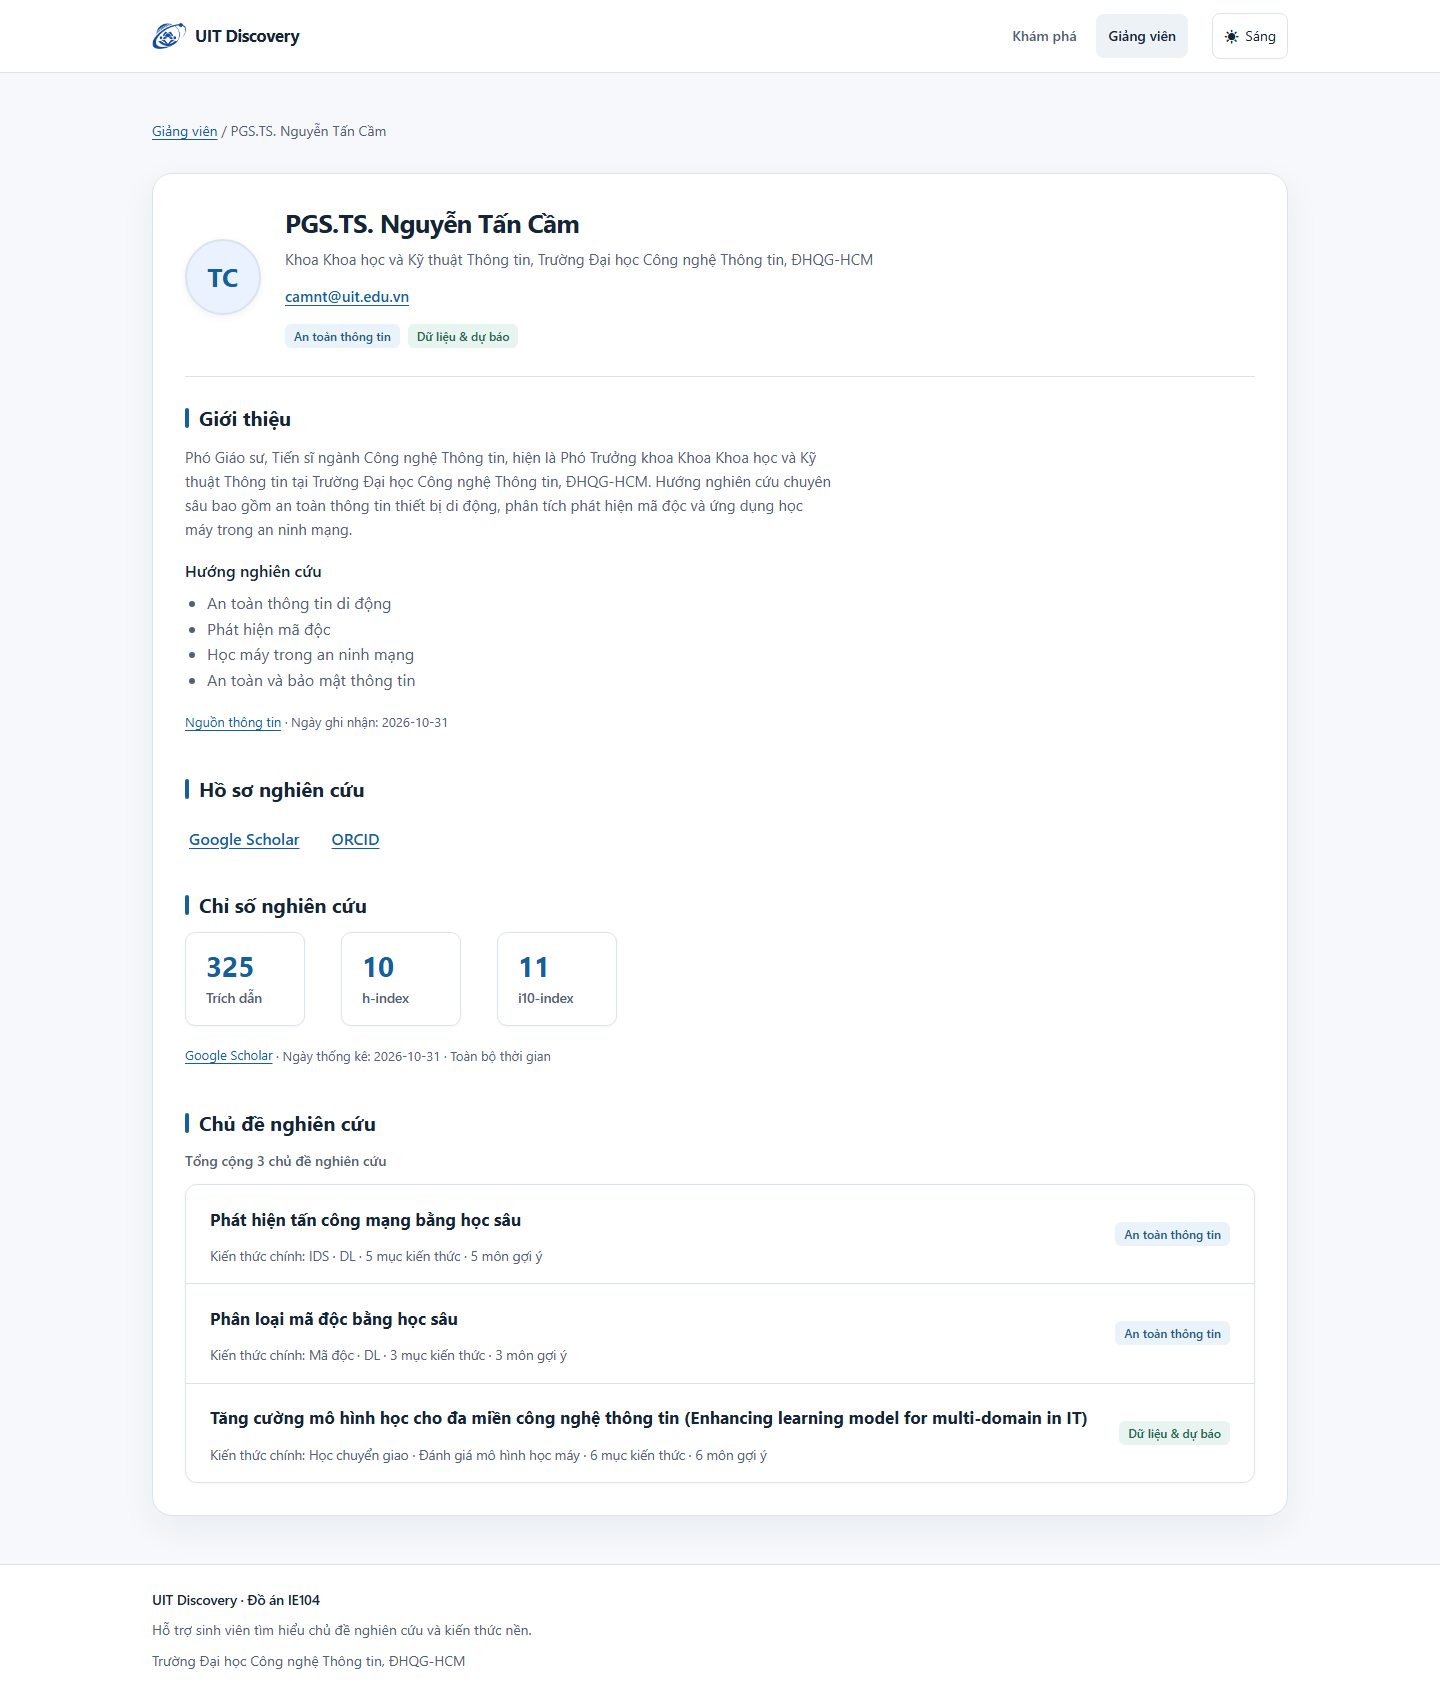
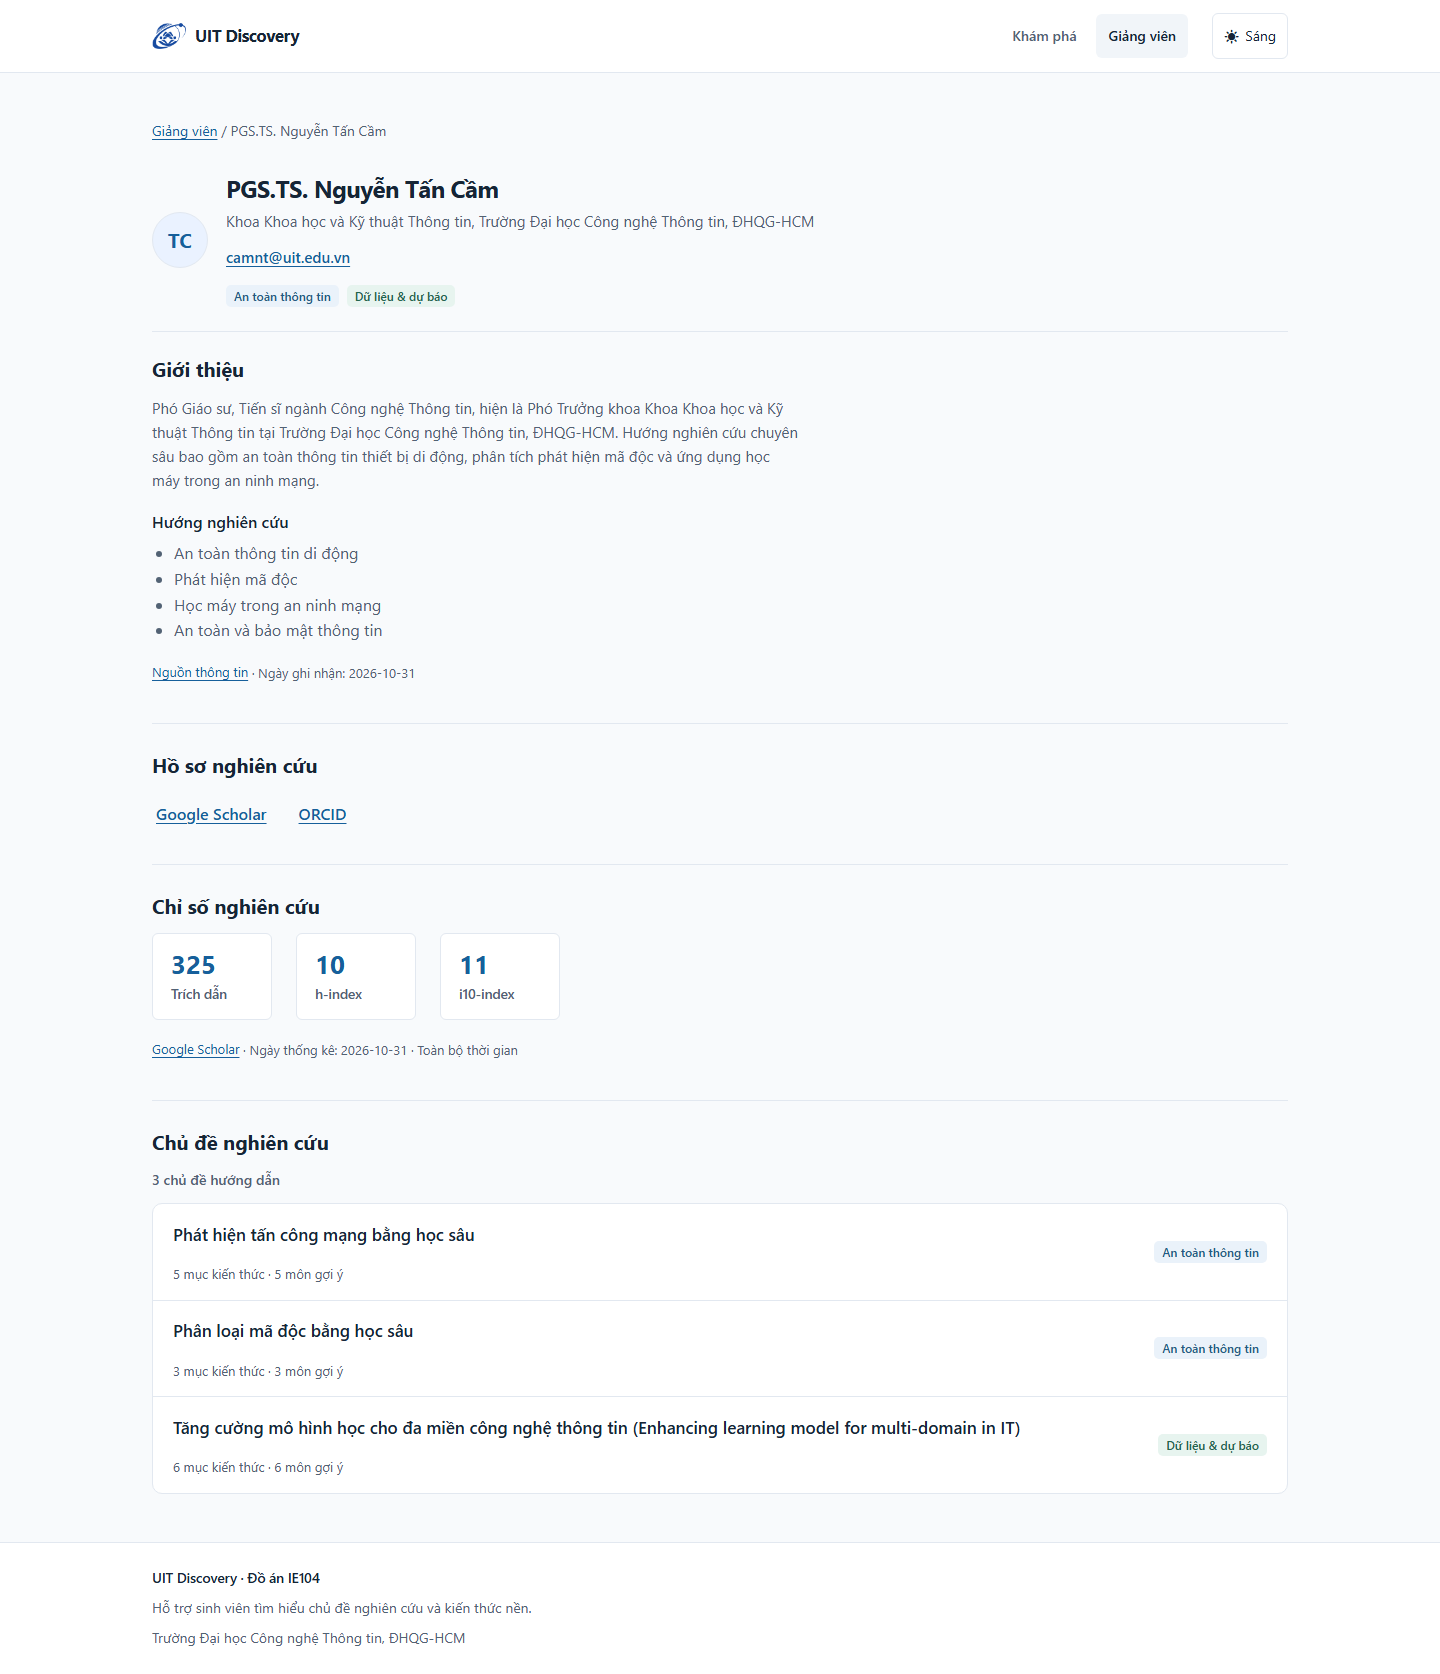
docs(history): cập nhật lịch sử và minh chứng bản giao diện tối giản

diff --git a/idea/ke-hoach-tich-hop-sua-loi.md b/idea/ke-hoach-tich-hop-sua-loi.md
@@ -757,3 +757,21 @@ Thực hiện nâng cấp toàn diện 5 trang (`15` file HTML/CSS/JS) theo báo
 - **W3C Validator (`https://validator.nu/?out=json`):** `0` lỗi trên cả 5 file HTML (`4` trang `0` cảnh báo; `topics/detail/index.html` `0` lỗi và `1` info-warning mặc định của `validator.nu` về hỗ trợ phần tử `<dialog>` trên các trình duyệt cũ, đã có fallback `hidden` kèm JS).
 - **Chrome Headless + CDP (`qa_report.json`):** `50` tổ hợp responsive (`5` trang × `5` rộng `320/375/768/1024/1440` × `2` theme) `0` tràn ngang (`0` multi-`<h1>`); `axe-core` WCAG 2A/AA & 2.1AA `0` vi phạm trên cả `5` trang (`1440×900` & `375×812`, Sáng/Tối) lẫn dialog Picker/Drawer; `0` phần tử chạm `< 43.5px` trên cả `5` trang (`touch_targets: []`); `37/37` cây nghiên cứu mở đệ quy `271` node đạt `0` chồng lấn; `0` console error/pageerror; bảo toàn truy vấn `"hoc sau" -> 5`, `"mã độc" -> 2`, `"nguyen tan cam" -> 3`, `first_topic_mobile_375.bottom = 711px <= 812px`, `hunglkt@uit.edu.vn -> PGS. TS. Lê Kim Hùng`, `topics_placeholder_320.fitsAt320 = true`, `hintHiddenInCards = true`, `expandVisible.clippedRightOrLeft = 0`.
 - **Minh chứng & Giới hạn:** Đủ `14` ảnh chụp sau nâng cấp lưu tại `idea/minh-chung-giao-dien/ui-upgrade-20261118/`. Báo cáo so sánh chi tiết đặt tại `../Đồ án tham khảo/SO_SANH_GIAO_DIEN_TRUOC_SAU_UIT_DISCOVERY.md`. Môi trường hiện tại không cài Node.js (`npm`/`npx`/`lighthouse` CLI) và không có Firefox/Safari/thiết bị cảm ứng vật lý; kiểm thử thực hiện trên Chrome Headless (Windows) + `axe.min.js` + `validator.nu`. Chưa push, merge hay deploy.
+
+
+### Tinh gọn theo phong cách Tối giản (lược bỏ trang trí & thông tin dư thừa) — 18/11/2026
+
+Theo phản hồi tiếp nhận sau bản `6f0d454` (giữ mục tiêu tối giản có chủ đích, bỏ bóng đổ/vạch trang trí/hộp lồng thừa và giữ cân bằng 3 sắc độ dịu của 3 nhóm ngành trên badge, tag và node gốc):
+
+- **Backup trước vòng tối giản:** `backup/job-2-ui-upgrade-v1-20261118` tại `b8d84ab` (vẫn giữ nguyên mốc gốc `f98c978` tại `backup/job-2-before-ui-upgrade-20261118`).
+- **Commit mã nguồn bản Tối giản:** `c72acf8` (`c72acf8b2fdb5d3b145b263035c977ff875495eb`) — sửa gọn `13` file (`282+ / 671-` dòng).
+- **Thay đổi cốt lõi trên 5 trang:**
+  - *Nền & Trang chủ (`index.html`, `style.css`, `data.js`):* `--shadow-soft: none`, bảng màu sáng/tối dịu tương phản cao (`#f8fafc/#ffffff/#e2e8f0` & `#121820/#18212c/#2c3849`), bo góc gọn (`6/10/12px`), bỏ sọc trái `.page-header`, chuyển Trang chủ về Hero 1 cột + 3 nhóm nghiên cứu thật (`14/12/11`) + chú thích phẳng cuối trang (gỡ `.home__visual`, `.home__steps`, `.eyebrow`, `.home__note`), rút gọn `summarizeTopicScope` còn chuỗi định lượng (`N mục kiến thức · M môn gợi ý`).
+  - *Khám phá (`topics/index.html`, `topics.css`):* bỏ câu dẫn thừa dưới `h1` và `<details class="topics-guide">` cuối trang, làm phẳng `.topics-search` thành vạch đáy `1px`, bỏ chấm màu cầu vồng trên chip chưa chọn, gom hàng tiêu đề kết quả + bộ đếm cùng dòng.
+  - *Chi tiết & Lộ trình (`topics/detail/index.html`, `topic-detail.css`, `topic-detail.js`):* làm phẳng `.topic-header`, ẩn hoàn toàn `#topic-switcher-container` khi GV chỉ có 1 đề tài (`7/16` GV), chuyển disclaimer thành `.roadmap-footnote` nhẹ cuối khối, thống nhất viền `solid` cho node/badge cấp độ và nền sạch cho `.mindmap-toolbar`.
+  - *Danh bạ & Hồ sơ (`lecturers/index.html`, `lecturers.css`, `lecturer-detail.css`, `lecturers.js`, `lecturer-detail.js`):* làm phẳng `.lecturers-filter`, xóa `.lecturer-card::before`, xóa hộp bọc `.profile-card` và sọc dọc `.profile-section__title::before`, dùng đường kẻ `1px`, thu gọn chữ đếm (`N chủ đề`, `N chủ đề hướng dẫn`) và ghi chú tối giản 1 dòng ở đáy.
+- **Kiểm chứng sau chỉnh sửa cuối (`c72acf8`):**
+  - `git diff data/` trống (`0` sửa đổi JSON); `0` `:root`, `0` `!important` và `100%` `#page-*` scoping trên 4 CSS trang; `170/170` hàm JS đủ JSDoc `@param`/`@returns`.
+  - W3C Validator (`validator.nu`): `0` lỗi trên 5 trang (`4` trang `0` cảnh báo; `topics/detail/index.html` còn `1` info-warning mặc định về `<dialog>` kèm fallback `hidden`).
+  - Chrome Headless + CDP (`qa_report.json`): `responsive_50: []`, `axe_violations: []`, `touch_targets: []`, `console_errors: []`, `all_37_trees` (`271` node với `0` chồng lấn), `first_topic_mobile_375` đạt `{top: 544, bottom: 582}` (`<= 812px`), bảo toàn `"hoc sau" -> 5`, `"mã độc" -> 2`, `"nguyen tan cam" -> 3`, `hunglkt -> PGS. TS. Lê Kim Hùng`, `topics_placeholder_320.fitsAt320: true`, `hintHiddenInCards: true`, `expandVisible.clippedRightOrLeft: 0`.
+  - Giới hạn giữ nguyên như đợt 1 (thiếu Node.js/Lighthouse CLI, Firefox/Safari và thiết bị thật). Chưa push, merge hay deploy.

diff --git a/idea/README.md b/idea/README.md
@@ -8,7 +8,7 @@ Nhóm trưởng quản lý token, component, trang vào và module chung; các d
 
 ## Quyết định đang áp dụng
 
-- **Nâng cấp UI/UX hậu tích hợp 18/11/2026 (dựa trên báo cáo `REC-01`..`REC-15` và vòng kiểm định hoàn thiện):** Mở rộng hệ token tại `style.css` (thêm dải màu nhóm miền trung hòa `--color-group-nlp` và `--color-group-sec-soft/--color-group-data-soft/--color-group-nlp-soft`, khôi phục `@media (prefers-color-scheme: dark)` cho No-JS khi chưa chọn thủ công); trang chủ bổ sung disclaimer học thuật và dải 3 nhóm nghiên cứu thật từ dữ liệu (`14/12/11`), ẩn vòng quỹ đạo cắt mép trên `<= 1023px`, khắc phục nền logo Dark Mode; trang Khám phá bổ sung bộ đếm số lượng thật `(37/14/11/12)`, phân biệt trạng thái chọn nhiều nhóm OR, tóm tắt phạm vi kiến thức từng đề tài, nâng vùng chạm tiêu đề `>= 44px`; trang Chi tiết chủ đề đồng bộ màu domain/trung tính hóa badge cấp độ và môn học tham khảo, lộ mép phải root + mũi tên + nút `+N`/`−` tách riêng + `Kéo 2D` + CSS fullscreen fallback + neo đúng nhánh con vừa mở trên mobile; Danh bạ & Hồ sơ giảng viên giữ form `wcag/h32`, sắp xếp A–Z theo tên tiếng Việt, sửa vạch đầu thẻ `position: absolute`, đưa `Chủ đề nghiên cứu` + `.profile-tags` lên đầu cho 15/16 hồ sơ tối giản. Backup trước sửa: `backup/job-2-before-ui-upgrade-20261118` tại `f98c978`; commit code `6f0d454` trên nhánh local `review/job-2-combined`. Giữ nguyên 100% `data/*.json`, schema, URL query và alias `hunglkt -> hunglk`.
+- **Nâng cấp UI/UX hậu tích hợp & Tối giản hóa 18/11/2026 (`6f0d454` → bản tối giản cuối `c72acf8`, nhánh local `review/job-2-combined`):** Chuẩn hóa `35` token trong `style.css` (3 cặp sắc độ dịu `--color-domain-sec/data/nlp-*`, khôi phục `@media (prefers-color-scheme: dark)` No-JS, bỏ `--shadow-soft`); tối giản Trang chủ thành Hero 1 cột kèm 3 nhóm thật (`14/12/11`), loại bỏ khối minh họa nổi/quỹ đạo và 3 bước lặp, xử lý nền logo Dark Mode; trang Khám phá làm phẳng bộ lọc, bổ sung bộ đếm `(37/14/11/12)`, chọn nhiều OR bằng dấu `✓`, rút gọn tóm tắt đề tài định lượng (`N mục kiến thức · M môn gợi ý`) và giữ tiêu đề đầu gọn trong `375×812`; trang Chi tiết chủ đề làm phẳng header, ẩn hoàn toàn hộp chuyển khi GV chỉ có 1 đề tài (`7/16` GV), đồng bộ màu nhóm/badge trung tính và `Môn học gợi ý tham khảo`, lộ mép phải root + mũi tên + nút `+N`/`−` tách riêng + `Kéo 2D` + pseudo-fullscreen + `focusExpandedBranch()` neo đúng nhánh con; Danh bạ & Hồ sơ giảng viên giữ form `wcag/h32`, sắp A–Z tiếng Việt, bỏ vạch trang trí và hộp bọc lồng nhau, đưa `Chủ đề nghiên cứu` + `.profile-tags` lên đầu ở `15/16` hồ sơ tối giản. Backup gốc: `backup/job-2-before-ui-upgrade-20261118` (`f98c978`), backup đợt 1: `backup/job-2-ui-upgrade-v1-20261118` (`b8d84ab`). Giữ nguyên 100% `data/*.json`, schema, URL và alias `hunglkt -> hunglk`.
 
 - **Cập nhật UI/UX 17/11/2026 (nhóm trưởng duyệt phạm vi thiết kế lại):** nhận diện xanh UIT, Material tiết chế được phát triển thành giao diện học thuật có điểm nhấn: hero biên tập, minh họa khái niệm tự dựng bằng CSS, phân cấp bề mặt và typography. Chức năng/schema/URL giữ nguyên. Quyết định này thay giới hạn “ít trang trí” của 12/11; xem đánh giá và nghiệm thu mới trong kế hoạch tổng. Bản local chờ nhóm trưởng xem trước khi push/merge.
 

diff --git a/lecturers/job2-sua-chua-tv2.md b/lecturers/job2-sua-chua-tv2.md
@@ -119,3 +119,8 @@ Thực hiện hậu tích hợp trên nhánh `review/job-2-combined` (`CODE_SHA`
 | `15/16` hồ sơ tối giản mở đầu bằng khối trống `Giới thiệu`; thiếu tag nhóm trên thẻ đầu; `lecturer-detail.css` còn `13` `!important` & `:root` cục bộ; ẩn tóm tắt đề tài khi `<= 3` chủ đề | Đưa `Chủ đề nghiên cứu` + tóm tắt phạm vi lên đầu (chuyển ghi chú tối giản xuống `.profile-minimal-note` cuối thẻ) cho `15/16` hồ sơ; hiển thị `.profile-tags` cho `16/16` hồ sơ; breadcrumb hiện tên GV; xóa sạch `13` `!important` & `:root` cục bộ; chuẩn hóa breakpoint `767px` | Tối ưu nội dung thật cho sinh viên và sạch kỹ thuật CSS IE104 | `lecturers/detail/index.html`, `assets/css/lecturer-detail.css`, `assets/js/lecturer-detail.js` | Ảnh `12`, `13`; alias `hunglkt -> PGS. TS. Lê Kim Hùng`; `0` `!important`, `0` `:root`; `lecturers.js` `27/27` & `lecturer-detail.js` `22/22` hàm đủ JSDoc |
 
 **Minh chứng & Giới hạn:** `idea/minh-chung-giao-dien/ui-upgrade-20261118/` (`11`, `12`, `13`). Kiểm thử trên Chrome Headless CDP + `axe-core` (`0` vi phạm) + `validator.nu` (`0` lỗi); chưa chạy Lighthouse CLI (thiếu Node) hay thiết bị thật. Chưa push/merge.
+
+### Vòng tinh gọn theo phong cách Tối giản (`c72acf8`) — 18/11/2026
+- **Danh bạ (`lecturers/*`):** Làm phẳng `.lecturers-filter` (chỉ viền đáy `1px`), xóa vạch `.lecturer-card::before` và bóng đổ, thu gọn avatar `40px`, rút nhãn thành `"N chủ đề"`, xóa mô tả thừa dưới `h1`, giữ nút `"Tìm"` (`wcag/h32`), sắp A–Z và giữ cân bằng 3 sắc độ `.lecturer-tag--sec/data/nlp`.
+- **Hồ sơ (`lecturers/detail/*`):** Bỏ hộp bọc `.profile-card` và thanh sọc `.profile-section__title::before`, dùng đường kẻ ngang `1px`, giữ gọn `"N chủ đề hướng dẫn"` và ghi chú tối giản 1 dòng cuối trang (ảnh `12`, `13`), rút gọn `.topic-row__summary` còn số lượng kiến thức/môn qua `data.js`.
+- **Kết quả sau sửa:** `0` `:root`, `0` `!important`, `27/27` (`lecturers.js`) & `22/22` (`lecturer-detail.js`) hàm đủ JSDoc, HTML `validator.nu` `0` lỗi, `axe_violations: []`, `touch_targets: []`, `responsive_50: []`, alias `hunglkt -> PGS. TS. Lê Kim Hùng`. Minh chứng ảnh `11`, `12`, `13` đã cập nhật.

diff --git a/topics/job2-sua-chua-tv3.md b/topics/job2-sua-chua-tv3.md
@@ -124,3 +124,8 @@ Thực hiện hậu tích hợp trên nhánh `review/job-2-combined` (`CODE_SHA`
 | Placeholder bị cắt nhẹ trên `375px`; vùng chạm link tiêu đề `.topic-row__title a` `24px`; góc hover hàng đầu/cuối vuông; còn selector chết trong `topics.css` | Rút ngắn placeholder `"Ví dụ: học sâu, mã độc, Cầm"` (`fitsAt320: true`); nâng `.topic-row__title a` lên `44px` với khoảng hở focus an toàn; bo góc `15px` cho `:first-child`/`:last-child` + `:focus-within`; xóa selector chết & đảm bảo `22/22` hàm JS có JSDoc | Đảm bảo khả năng chạm, hiển thị mobile không cắt chữ và giữ tiêu đề đầu trong màn hình `375×812` | `topics/index.html`, `assets/css/topics.css`, `assets/css/style.css`, `assets/js/topics.js` | `first_topic_mobile_375`: `{top: 675, bottom: 711}` (`<= 812px`); `touch_targets: []`; HTML `validator.nu` `0` lỗi; `axe-core` `0` vi phạm |
 
 **Minh chứng & Giới hạn:** `idea/minh-chung-giao-dien/ui-upgrade-20261118/` (`05`, `06`). Kiểm thử trên Chrome Headless CDP + `axe-core` + `validator.nu`; chưa chạy Lighthouse CLI (thiếu Node) hay thiết bị thật. Chưa push/merge.
+
+### Vòng tinh gọn theo phong cách Tối giản (`c72acf8`) — 18/11/2026
+- Làm phẳng `.topics-search` (viền đáy `1px`, bỏ hộp/bóng đổ), bỏ sọc trái `.page-header`, bỏ mô tả thừa dưới `h1` và khối `<details class="topics-guide">` ở cuối trang.
+- Bỏ chấm màu cầu vồng trên chip lọc chưa chọn (giữ dấu `✓` + nền nhấn xanh thống nhất khi bật lọc OR; giữ 3 màu dịu trên `.topic-row__group`), gom tiêu đề + bộ đếm kết quả trên 1 hàng, rút `.topic-row__summary` qua `data.js` còn `"N mục kiến thức · M môn gợi ý"`.
+- **Kết quả sau sửa:** Tiêu đề đề tài đầu tiên trên mobile `375×812` nâng lên `{top: 544, bottom: 582}` (`<= 812px`, thấy cả đầu đề tài thứ 2 trong màn hình đầu), placeholder `"Ví dụ: học sâu, mã độc, Cầm"` vừa khít ở `320px` (`fitsAt320: true`), `touch_targets: []`, `axe_violations: []`, `0` lỗi HTML `validator.nu`, `"hoc sau" -> 5`, `"mã độc" -> 2`, `"nguyen tan cam" -> 3`. Minh chứng ảnh `05`, `06` đã cập nhật.

diff --git a/topics/detail/job2-sua-chua-tv1.md b/topics/detail/job2-sua-chua-tv1.md
@@ -131,3 +131,8 @@ Axe mobile không vi phạm trong nhóm WCAG2A/AA,21AA; HTML Validate trang chi 
 | GV có 1 đề tài vẫn mở modal `Chuyển chủ đề`; danh sách dùng từ `"keyword"`; thiếu disclaimer | Trạng thái tĩnh `"Giảng viên có 1 chủ đề trong danh mục"` (7/16 GV); đổi `"mục kiến thức"`; thêm disclaimer; chuẩn hóa `document.title` `\| UIT Discovery` | Bỏ thao tác thừa, minh bạch nguồn tham khảo | `topics/detail/index.html`, `assets/css/topic-detail.css`, `assets/js/topic-detail.js` | Ảnh `10`, `14`; `90/90` hàm JS đủ JSDoc `@param`/`@returns`; HTML `validator.nu` `0` lỗi (`1` info-warning `<dialog>`) |
 
 **Minh chứng & Giới hạn:** `idea/minh-chung-giao-dien/ui-upgrade-20261118/` (`07`, `08`, `09`, `10`, `14`). Kiểm thử trên Chrome Headless CDP + `axe-core` + `validator.nu`; chưa chạy Lighthouse CLI (thiếu Node), Firefox hay thiết bị cảm ứng thật. Chưa push/merge.
+
+### Vòng tinh gọn theo phong cách Tối giản (`c72acf8`) — 18/11/2026
+- Làm phẳng `.topic-header` (viền đáy `1px`, bỏ bóng đổ), ẩn hoàn toàn `#topic-switcher-container` khi GV chỉ có 1 đề tài (`7/16` GV, thay cho `.topic-switcher__single`), nút chuyển đa đề tài rút thành `"Đề tài khác (N)"`.
+- Giữ 3 sắc độ miền trên `#topic-group-badge` và `.mindmap-node--root`; đồng bộ viền `solid` cho node lá và badge cấp độ trung tính; thu gọn `.mindmap-toolbar` về nền sạch; dời lưu ý tham khảo xuống `.roadmap-footnote` cuối khối và rút gọn `#mindmap-hint`.
+- Kết quả sau sửa: `37/37` cây (`271` nodes) `0` chồng lấn, `touch_targets: []` (`>= 44px` trên mobile), `axe_violations: []`, `responsive_50: []`, `hintHiddenInCards: true`, `expandVisible.clippedRightOrLeft: 0`, `90/90` hàm JS đủ JSDoc, HTML `validator.nu` `0` lỗi (`1` info-warning `<dialog>`). Minh chứng ảnh `07`, `08`, `09`, `10`, `14` đã cập nhật trong `idea/minh-chung-giao-dien/ui-upgrade-20261118/`.
